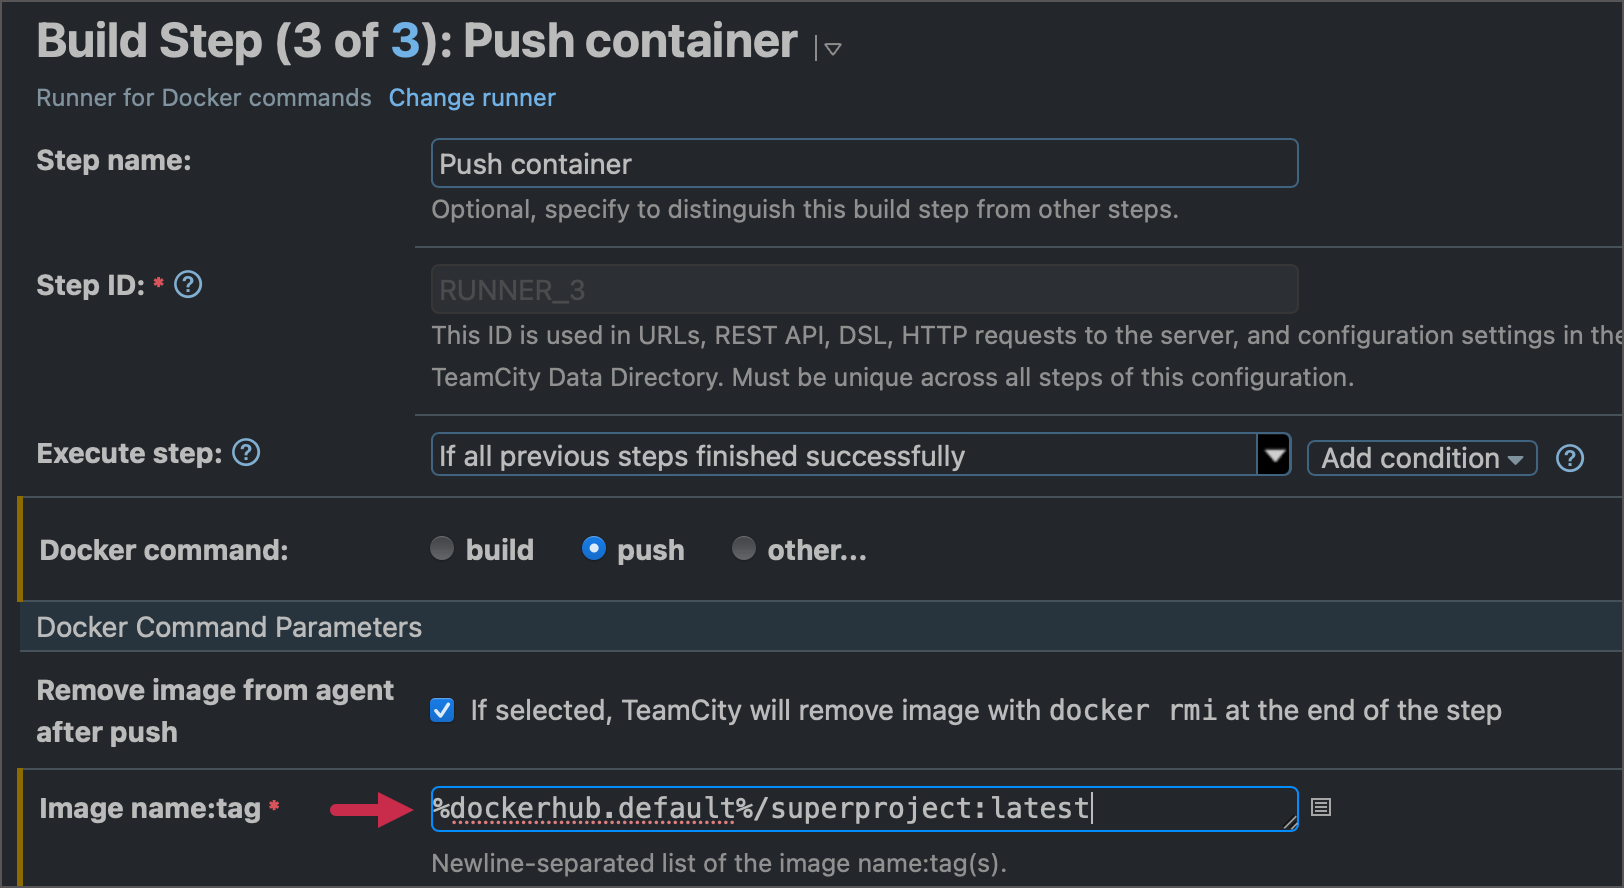
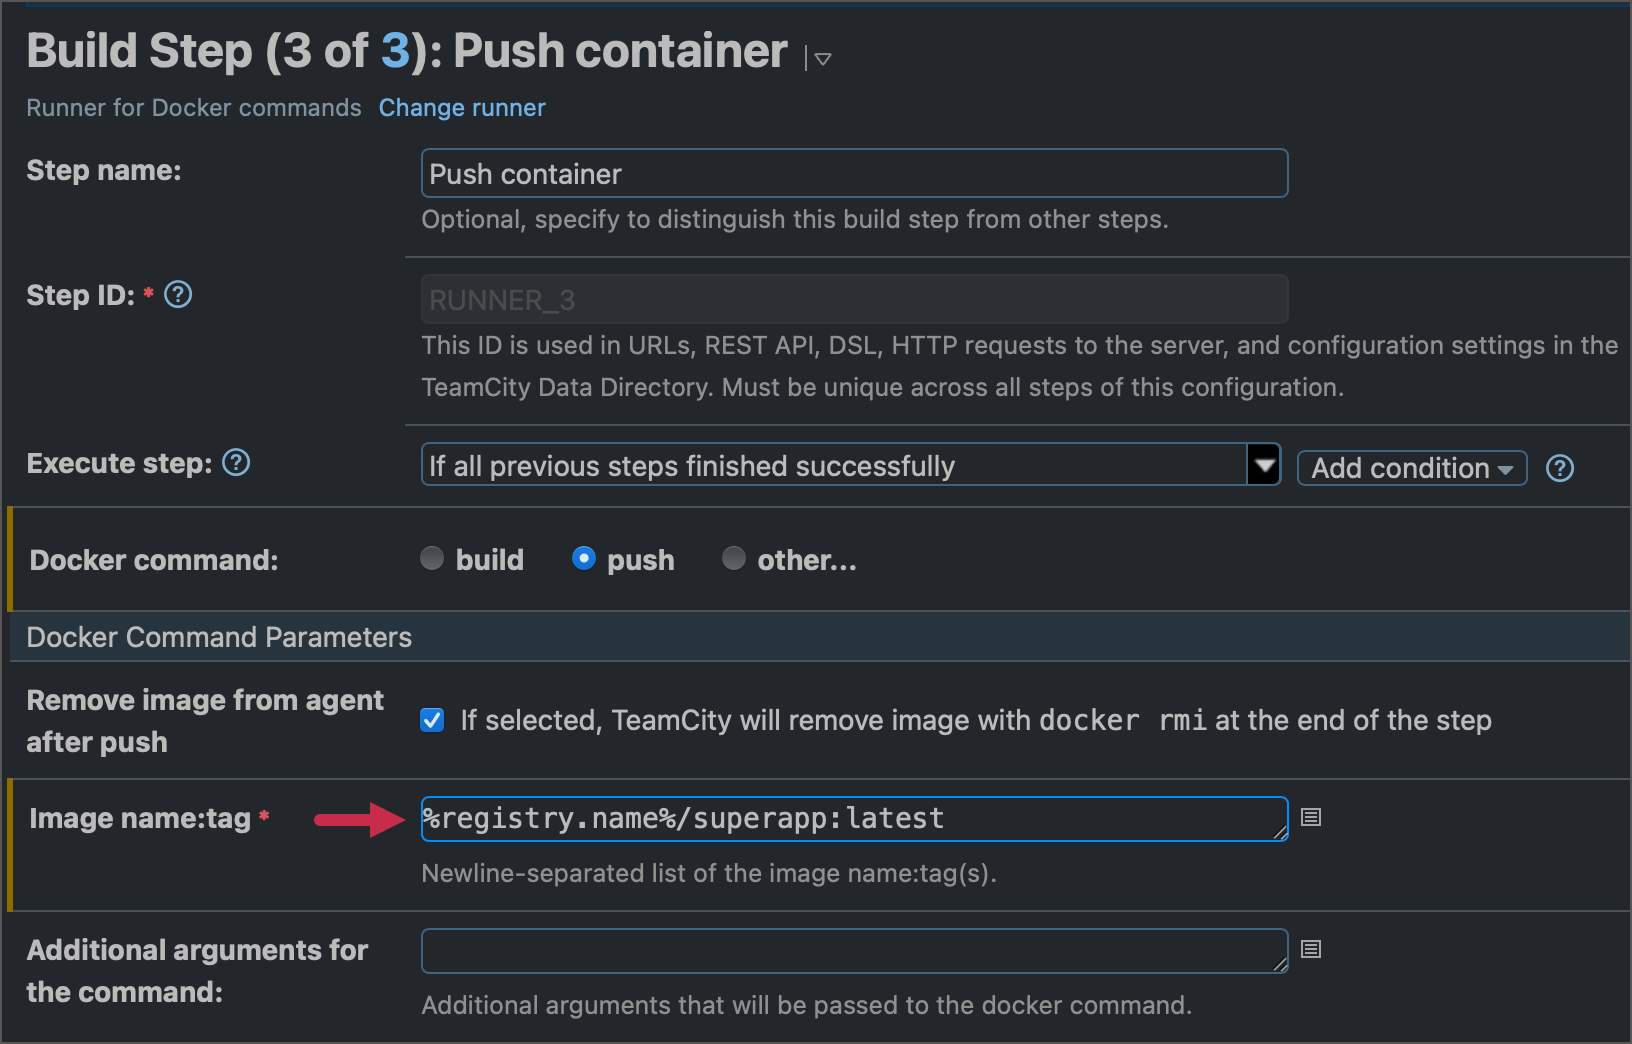
update

diff --git a/topics/configuring-build-parameters.md b/topics/configuring-build-parameters.md
@@ -2,43 +2,51 @@
 [//]: # (auxiliary-id: Configuring Build Parameters)
 [//]: # (Internal note. Do not delete. "Configuring Build Parametersd72e3.txt")
 
-Rename to "TeamCity Parameters" and move to "Managing Projects"? 
+In TeamCity, you can utilize predefined and custom build parameters. Parameters are `name=value` pairs that can be used instead of plain values.
 
-In TeamCity, you can utilize predefined and custom build parameters. Parameters are `name=value` pairs that can be referenced throughout TeamCity to avoid using plain values.
-
-There are two major parameter types in TeamCity:
+There are three major parameter types in TeamCity:
 
 * **Configuration Parameters** — parameters whose primary objective is to share settings within a build configuration. You can also use these parameters to customize a configuration that is based on a [template](build-configuration-template.md) or uses a [meta-runner](working-with-meta-runner.md). Parameters of this type are not passed into a build process (that is, not accessible by a build script engine).
 
-* **Environment Variables** — parameters that start with the `env.` prefix that are passed to the process of a build runner similarly to default env variables of a system.
+* **Environment Variables** — parameters that start with the `env.` prefix. These parameters are passed to the process of a build runner similarly to default env variables of a system.
 
-See the following sections to better understand where you can use parameters.
+* **System Properties** — parameters that start with the `system.` prefix. These parameters can be passed to configuration files of [certain runners](#Pass+Values+to+Builders%27+Configuration+Files) as variables specific to a build tool.
 
-## Main Use Cases
+<anchor name="Parameter+References"/>
 
-### Substitute Plain Values
+## Common Information
 
-Parameters allow you to avoid using plain values in TeamCity UI. Instead, you can reference a parameter by its name using the `%\NAME%` syntax. You can do this to:
+Parameters allow you to avoid using plain values in TeamCity UI and build scripts. Instead, you can reference a parameter by its name using the `%\<parameter_name>%` syntax. In addition, parameters can reference other parameters in their values (for example, `system.tomcat.libs=%\env.CATALINA_HOME%/lib/*.jar`).
 
-* store frequently used values;
-* store sensitive information that should not be visible to regular TeamCity developers;
-* improve readability of your configurations by using shorter parameter names instead of full values, and so on.
+Storing values in parameters allows you to:
 
-#### Example 1: Store a Docker Registry Name
+* quickly reuse frequently used values;
+
+* create reusable [templates](build-configuration-template.md) and [meta-runners](working-with-meta-runner.md) whose parameter values are overridden in target configurations;
+
+* add flexibility to your build configurations: parameter values can be quickly altered in TeamCity UI, via the [service message](service-messages.md) sent during a build, or in the [Run Custom Build dialog](running-custom-build.md);
+
+* hide sensitive information that should not be visible to regular TeamCity developers;
+
+* improve readability of your configurations by using shorter parameter references instead of full values, and so on.
+
+The following examples illustrate different cases where you might opt for parameters instead of plain values. For other scenarios, see the [](#Main+Use+Cases) section.
+
+### Store a Docker Registry Name
 {initial-collapse-state="collapsed"}
 
-Create a custom parameter for the **&lt;Root&gt;** project to save the path for your default Docker registry (parameters declared for the **&lt;Root&gt;** project are available inside all child projects):
+If you have various configurations that utilize the same image registry, you can create a [custom parameter](custom-parameters.md) for the **&lt;Root&gt;** project to store this registry's name. Then you can reference this parameter in any [Docker step](docker.md) that pulls or pushes your images.
 
-<img src="dk-params-newParameter.png" alt="Create new parameter in TeamCity" width="706"/>
-
-You can then reference this parameter in all required [Docker runners](docker.md) that pull or push your images.
+> Parameters declared inside the **&lt;Root&gt;** project are available in all TeamCity build configurations.
+> 
+{style="tip"}
 
 <img src="dk-params-reuseParameter.png" width="706" alt="Use a custom parameter in TeamCity"/>
 
-#### Example 2: Specify the JDK Version
+### Specify the JDK Version
 {initial-collapse-state="collapsed"}
 
-The code below forces the [](gradle.md) runner to use the specific version of agent JDK instead of the default one. The parameter allows you to avoid using the exact path (which may vary for different build agents).
+The following [](gradle.md) step always uses JDK 19 instead of the default version referenced by the `JDK_HOME` environment variable. The runner retrieves a path for this required JDK from the corrensponding `env.` parameter.
 
 ```Kotlin
 steps {
@@ -50,7 +58,7 @@ steps {
 }
 ```
 
-#### Example 3: Set Additional .NET Parameters
+### Set Additional .NET Parameters
 {initial-collapse-state="collapsed"}
 
 In the following sample, the "Command line parameters" field of the [](net.md) runner references the `dotnet.output.type` parameter.
@@ -73,9 +81,14 @@ object MyBuildConfig : BuildType({
 })
 ```
 
-You can achieve the same result even faster by adding the "system." prefix to your parameter. Parameters that start with "system." are automatically passed to a build engine, so you can create the `system.dotnet.output.type` parameter with the "OutputType=WinExe" value and it will be written to the response (.rsp) file with .NET settings. As a result, you can skip setting the "Command line parameters" field in TeamCity.
 
-#### Example 4: Specify Artifact Paths
+> You can achieve the same result even faster by creating the `system.dotnet.output.type` parameter with the `OutputType=WinExe` value. This value will be automatically written to the response (.rsp) file with .NET settings, so you do not need to set the **Command line parameters** field in TeamCity UI.
+> 
+> This approach is based on th`system.` prefix to your parameter. Parameters that start with "system." are automatically passed to a build engine. This means you can create the `system.dotnet.output.type` parameter with the `OutputType=WinExe` value and it will be written to the response (.rsp) file with .NET settings. As a result, you can skip setting the **Command line parameters** field in TeamCity.
+> 
+{type="tip"}
+
+### Specify Artifact Paths
 {initial-collapse-state="collapsed"}
 
 When setting artifacts paths on the **Build Configuration Settings | General Settings | Artifact paths** page, you can utilize custom configuration parameters to substitute plain values.
@@ -90,10 +103,16 @@ object GoalInBuildScripts : BuildType({
 ```
 
 
-#### Example 5: Modify the Build Numbering Pattern
+### Modify the Build Numbering Pattern
 {initial-collapse-state="collapsed"}
 
-The **Build Configuration Settings | General Settings | Build Number Format** field allows you to customize the numbering pattern for builds of this configuration. The default zero-based integer number of a build can be retrieved via the `build.counter` parameter. The sample below adds the name of a TeamCity user who triggered this build to this default index.
+
+The **Build Configuration Settings | General Settings | Build Number Format** field allows you to customize the numbering pattern for builds of this configuration.
+
+
+
+The default zero-based integer index of a build can be retrieved via the `build.counter` parameter. The sample below adds the name of a TeamCity user who triggered this build to this default index.
+
 
 ```Kotlin
 object MyBuildConf : BuildType({
@@ -101,7 +120,7 @@ object MyBuildConf : BuildType({
 })
 ```
 
-#### Example 6: Label Builds
+### Label Builds
 {initial-collapse-state="collapsed"}
 
 Navigate to **Build Configuration Settings | Build Features** page and click **Add | VCS Labeling** to [tag build sources](vcs-labeling.md) in your VCS. 
@@ -109,6 +128,7 @@ Navigate to **Build Configuration Settings | Build Features** page and click **A
 
 <img src="dk-params-vcs-labeling.png" width="706" alt="VCS Labeling with Parameters"/>
 
+<br/>
 
 ```Kotlin
 object MyBuildConf : BuildType({
@@ -125,7 +145,7 @@ object MyBuildConf : BuildType({
 ```
 
 
-#### Example 7: Specify Checkout Rules
+### Specify Checkout Rules
 {initial-collapse-state="collapsed"}
 
 [](vcs-checkout-rules.md) can be configured on the **Build Configuration Settings | Version Control Settings** page. If your organization has a certain convention for branch names, you can store these default names as parameters and specify checkout rules as shown below.
@@ -146,7 +166,7 @@ object GoalInBuildScripts : BuildType({
 ```
 
 
-
+## Main Use Cases
 
 ### Customize Template-Based Configurations
 
@@ -209,7 +229,7 @@ See this article for the example of an Ant-based meta-runner that utilizes the c
 
 You can define [step execution conditions](build-step-execution-conditions.md) to specify whether individual steps should be run. You can use any parameters for these conditions (configuration parameters and environment variables, both custom and predefined).
 
-To set up step execution conditions in TeamCity UI, go to step settings and click **Add condition | Other condition...**.
+To set up step execution conditions in TeamCity UI, go to step settings and click **Add condition | Other condition...**
 
 <img src="dk-params-StepExecutionCondition.png" width="706" alt="Step execution condition"/>
 
@@ -595,88 +615,7 @@ TeamCity parameters allow you to exchange values between configurations of a [bu
 
 
 
-## OLD
 
-_Build parameters_ are name-value pairs, defined by a user or provided by TeamCity, which can be used in a build. They help flexibly share settings and pass them to build steps.
-
-This article explains how to configure build parameters. See how to [use them inside build settings and build scripts](using-build-parameters.md).
-
-## Types of Build Parameters
-
-There are three types of build parameters in TeamCity:
-* [Environment variables](#Environment+Variables)
-* [System properties](#System+Properties)
-* [Configuration parameters](#Configuration+Parameters)
-
-<anchor name="ConfiguringBuildParameters-BuildParameters"/>
-
-### Environment Variables
-
-Environment variables can be passed into a spawned build process as into an environment.
-
-They are defined by the `env.` prefix.
-
-### System Properties
-
-System properties can be passed into build scripts of [certain runners](using-build-parameters.md#Using+Build+Parameters+in+Build+Scripts) as variables specific to a build tool.
-
-They are defined by the `system.` prefix.
-
-<anchor name="ConfiguringBuildParameters-ConfigurationParameters"/>
-
-### Configuration Parameters
-
-Configuration parameters are not passed into a build process and are only meant to share settings within a build configuration. They are the primary means for customizing a build configuration which is based on a [template](build-configuration-template.md) or uses a [meta-runner](working-with-meta-runner.md).
-
-They come with no prefix.
-
-<anchor name="parameter-reference"/>
-
-## Parameter Name Restrictions
-
-The names of configuration parameters must contain only the `[a-zA-Z0-9._-*]` characters and start with an ASCII letter.
-
-## Predefined Build Parameters
-
-TeamCity provides a set of _predefined parameters_ that can be used within a build configuration settings or directly inside build steps. For example, you can access the current build's number by calling the respective parameter generated by TeamCity. See the [list of predefined parameters](predefined-build-parameters.md) for details.
-
-## Custom Build Parameters
-
-In __Build Configuration Settings | Parameters__, project administrators can define build parameters for the current build configuration. As soon as a new build starts in this configuration, TeamCity passes these parameters to its build scripts and environment.
-
->It is possible to redefine the parameters' values in a single build run by launching a [custom build](running-custom-build.md).
-
-Build parameters defined in a build configuration are used only within this configuration. See how to define them on a [project or agent level](levels-and-priority-of-build-parameters.md).
-
-Any user-defined build parameter (<emphasis tooltip="system-property">system property</emphasis> or <emphasis tooltip="environment-variable">environment variable</emphasis>) can reference other parameters as follows: `%\system.parameter_name%` or `%\env.parameter_name%`. For example, `system.tomcat.libs=%\env.CATALINA_HOME%/lib/*.jar`.  
-Read more about parameter references [below](#Parameter+References).
-
-You can also configure a [parameter's type](typed-parameters.md), so the parameter is displayed as a UI field in the _Run Custom Build_ dialog. This way, users will be able to use the UI dialog to quickly change the parameter's value in the next build run.
-
-## Parameter References
-
-Most text-field settings in TeamCity support referencing a build parameter as a variable. If you enter a string in the `%\parameter.name%` format, TeamCity will substitute it with the actual value during the build.
-
-If a build references a parameter which is not defined, TeamCity will consider it an [implicit agent requirement](agent-requirements.md#Implicit+Requirements): the build will only run on the agents where this parameter is defined.  
-The references to parameters which names do not satisfy the [above restrictions](#Parameter+Name+Restrictions) do not create an [implicit requirement](agent-requirements.md#Implicit+Requirements) and are ignored.
-
-See [where you can use parameter references](using-build-parameters.md#Where+References+Can+Be+Used).
-
-
-## Check Parameter Values After a Build
-
-When a build finishes, open the **Parameters** tab on the [](build-results-page.md) to view actual (at the time of this build) values for all parameters.
-
-<chunk id="build-results-parameters-tab">
-
-<img src="dk-buildParametersTab.png" width="706" alt="Build parameters tab"/>
-
-This page has two tabs:
-
-* **Parameters** — lists values for all configuration parameters, system properties, and environment variables. Highlights parameters that were added/modified in [custom builds](running-custom-build.md).
-* **Statistic values** — lists all [statistics values](custom-chart.md#Default+Statistics+Values+Provided+by+TeamCity) reported for the build (for example, build success rate or time required to check out a remote repository). The *View Chart* button (<img src="dk-viewChart.png" width="12" alt="View Chart"/>) allows you to check how these values trend throughout build runs.
-
-</chunk>
 
 <seealso>
         <category ref="admin-guide">

diff --git a/topics/parameters-lifecycle-and-priority.md b/topics/parameters-lifecycle-and-priority.md
@@ -68,11 +68,6 @@ with open('%\system.teamcity.configuration.properties.file%', 'r') as cp:
     print(cp.read())
 ```
 
-> Internal notes
-> * `agent.ownPort=9093` — hidden "system.agent.ownPort"? Or this is `teamcity.agent.ownPort`?
-> * `teamcity.build.id` reported to both files
-> 
-{type="warning"}
 
 ## Changing Parameter Values During a Build
 
